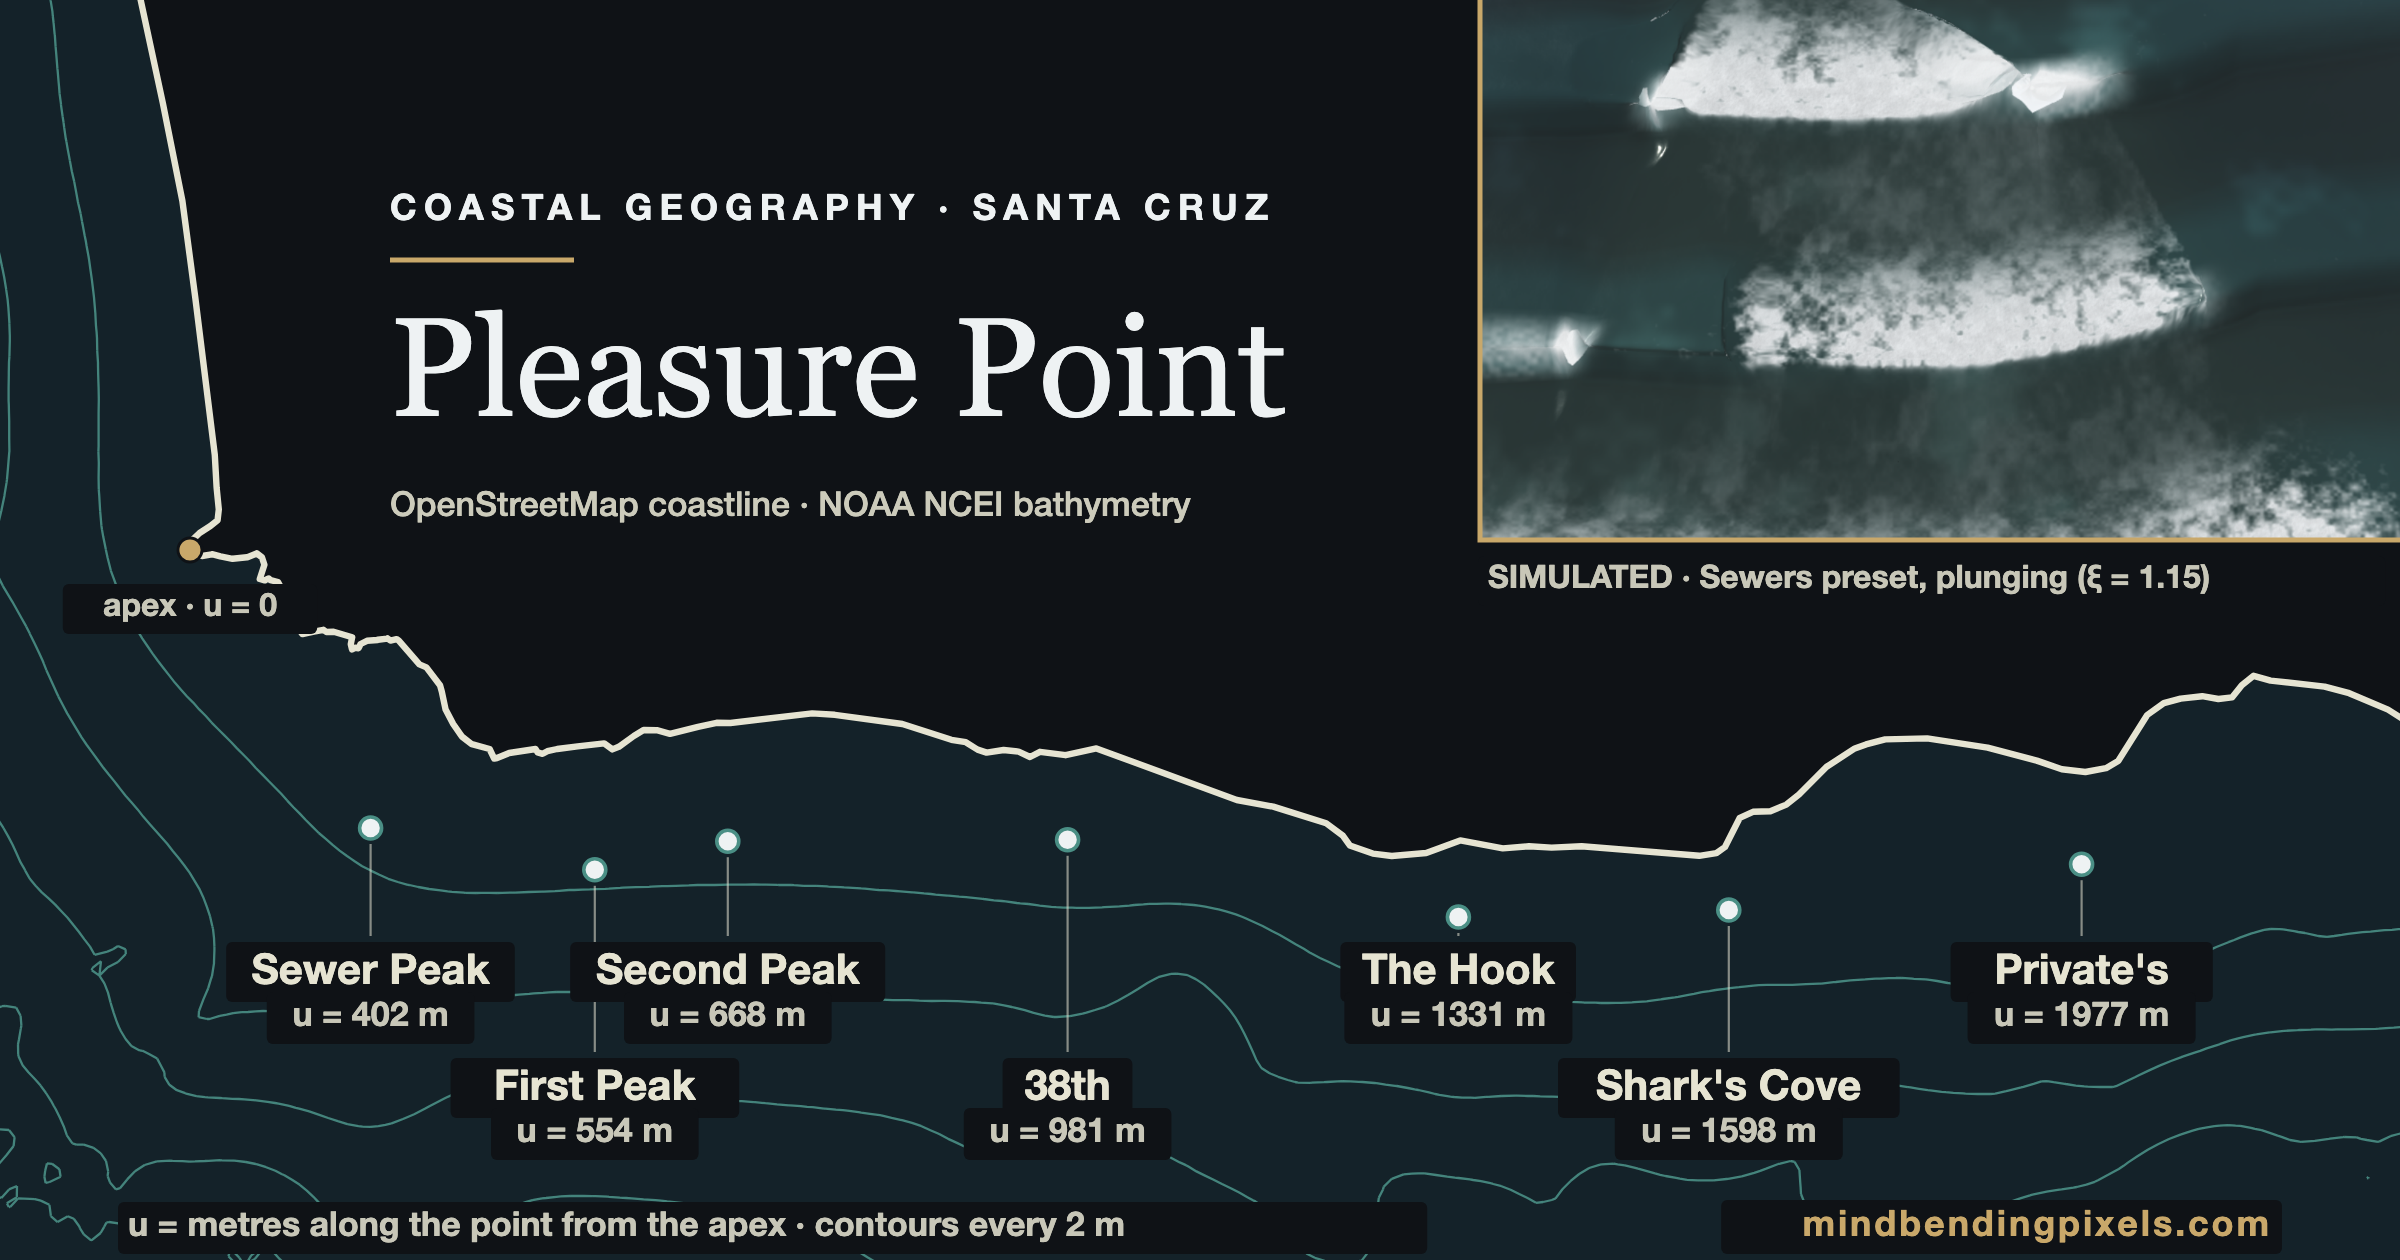
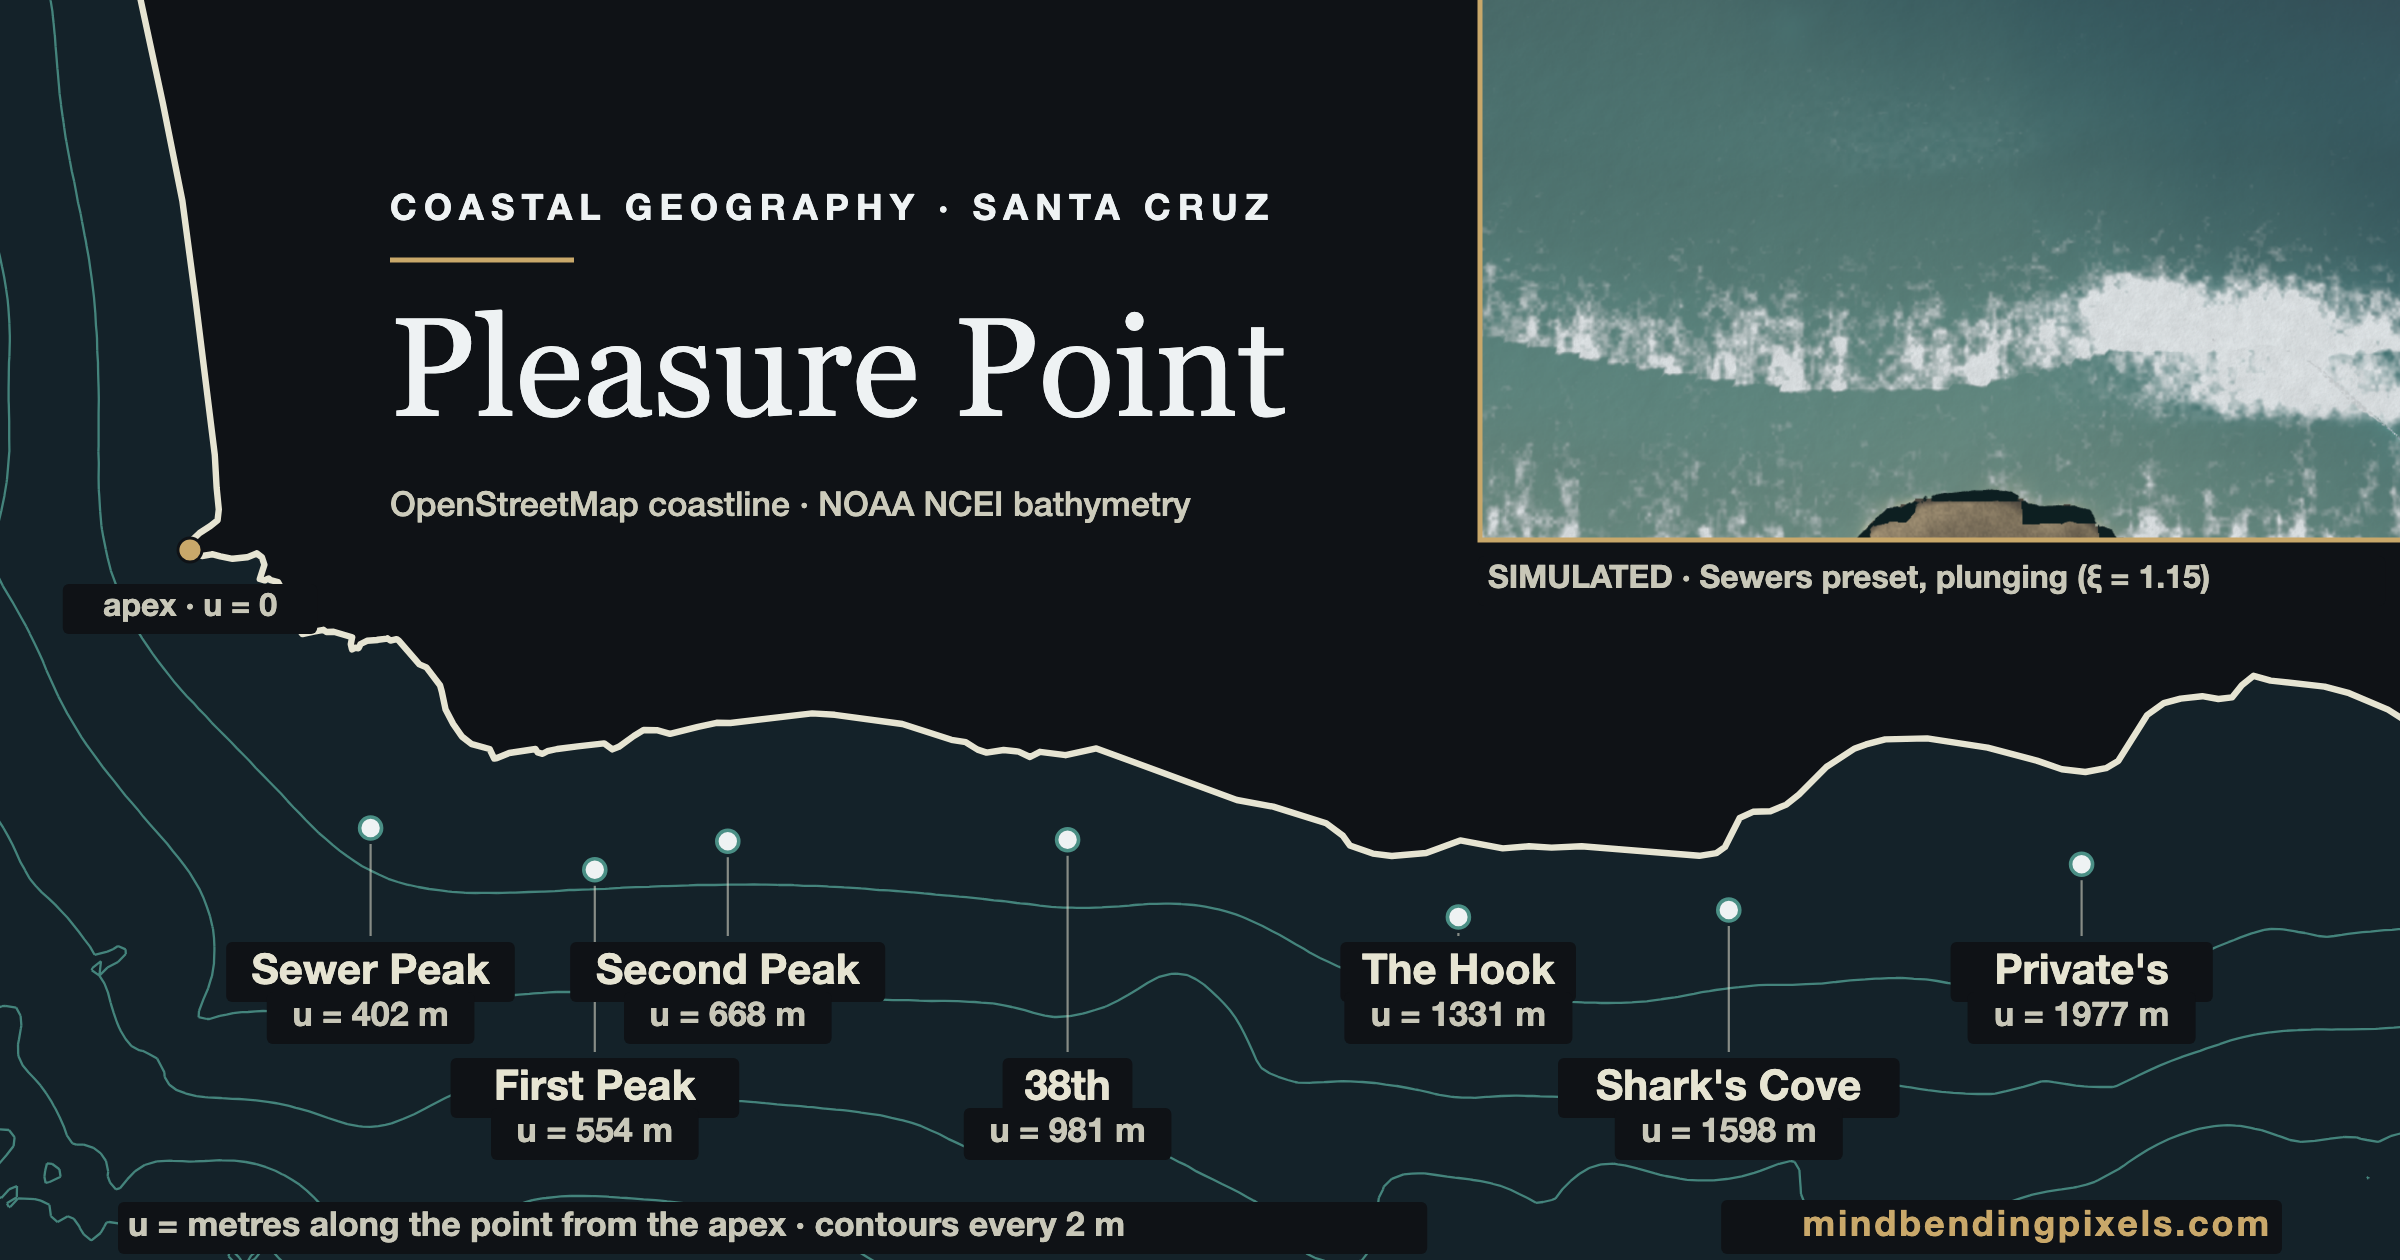
docs(hero): retain the accepted screen capture

Changed region(s): [[0.5938, 0.0, 1.0, 0.4333]]

diff --git a/docs/figures/gen_og.py b/docs/figures/gen_og.py
@@ -29,11 +29,13 @@ viewpoint as the map -- so the pair reads as one place seen twice, measured and
 modelled. It carries a SIMULATED caption: at a glance the render is
 photographic enough to be mistaken for an aerial photo, and it is not one.
 
-Deterministic; no randomness. Requires docs/figures/assets/og_hero.png --
-run capture_og_hero.mjs first. Run render_og.mjs afterwards for the PNG.
+Deterministic; no randomness. Requires the visually accepted
+docs/figures/assets/og_hero.png. capture_og_hero.mjs makes a candidate; it is
+not a prerequisite on every model change. Run render_check.mjs afterwards for
+the PNG.
 
 Usage:
-  node docs/figures/capture_og_hero.mjs     # once, or when the model changes
+  node docs/figures/capture_og_hero.mjs     # only to make a review candidate
   python3 docs/figures/gen_og.py
   node docs/figures/render_check.mjs docs/figures/og-card.svg \
         docs/figures/og-card.png 2

diff --git a/docs/figures/assets/PROVENANCE.md b/docs/figures/assets/PROVENANCE.md
@@ -39,12 +39,15 @@ borrowed names remain.
 
 ## Social-preview inset
 
-`og_hero.png` is a 1280×752 crop of the same renderer at Sewers, Drone camera,
-`sim=42&speed=0`, captured by `docs/figures/capture_og_hero.mjs`. It was
-regenerated on 2026-08-26 with the promoted anatomy default, then embedded by
-`gen_og.py` and rasterised at 2× by `render_check.mjs`:
+`og_hero.png` is a 1280×752 crop of the renderer at Sewers, Drone camera. The
+accepted asset remains the 2026-08-10 capture from commit `38e67ad`. A
+2026-08-26 recapture with the promoted anatomy default looked worse at card size
+and was deliberately deferred. `gen_og.py` embeds the accepted capture and
+`render_check.mjs` rasterises the card at 2×:
 
 ```bash
+# Optional: produce a review candidate. Do not replace the accepted asset
+# without visual approval.
 node docs/figures/capture_og_hero.mjs
 python3 docs/figures/gen_og.py
 node docs/figures/render_check.mjs docs/figures/og-card.svg \
